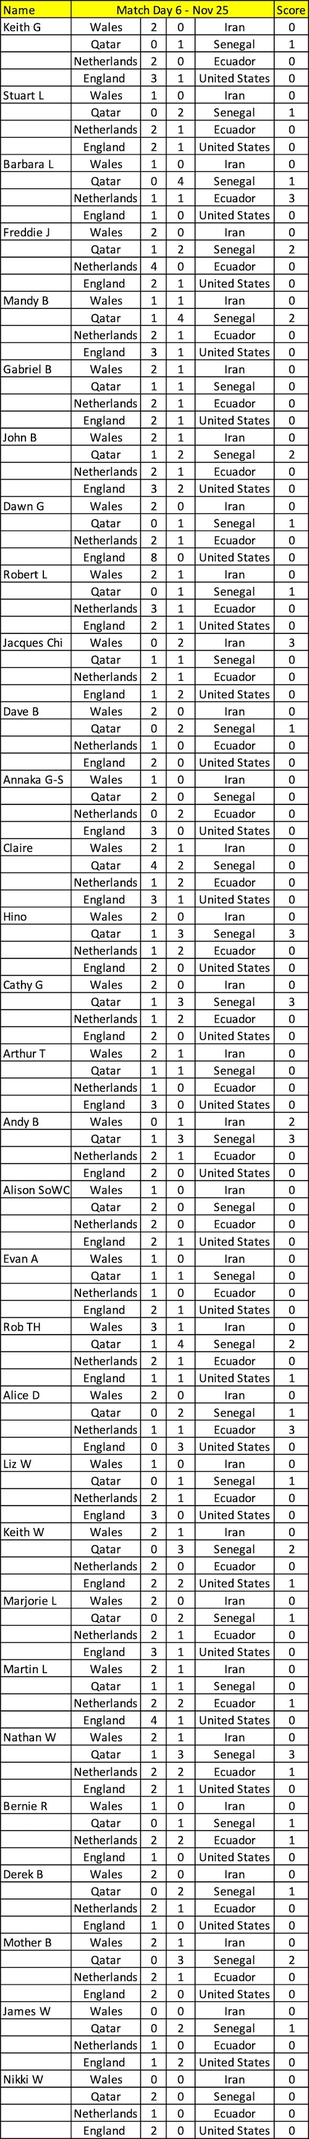
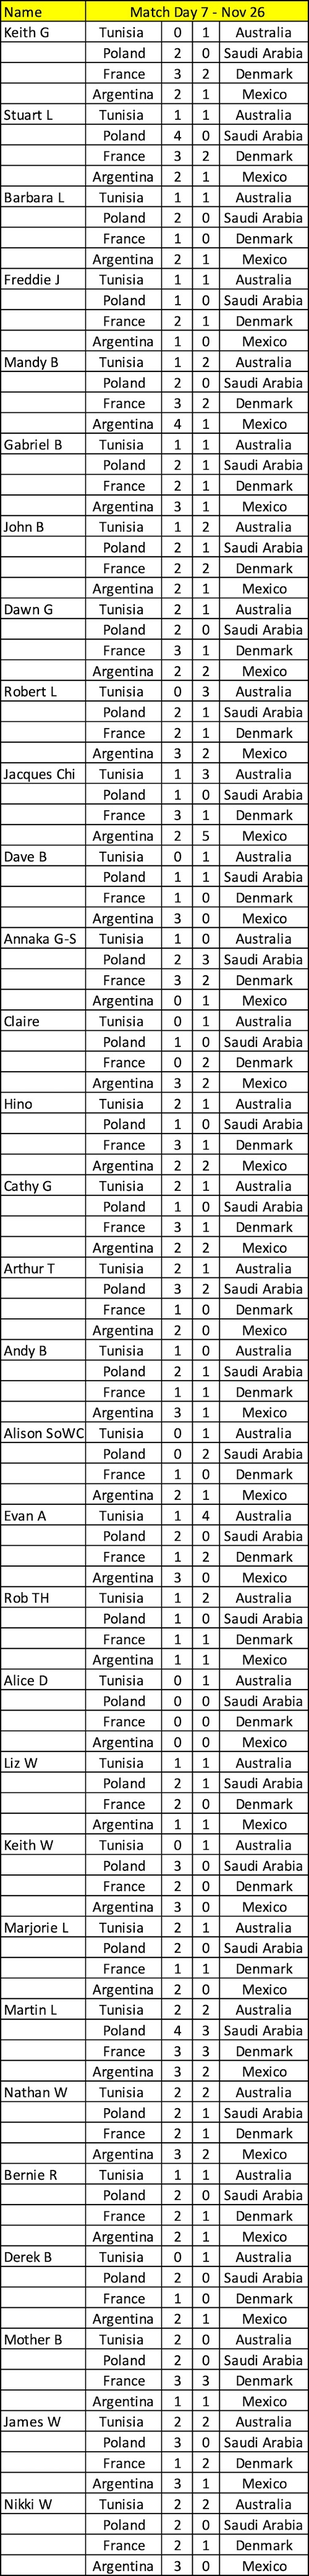
Updates for Day 7 and new Video Archive

Changed region(s): [[0.0, 0.0, 1.0, 1.0], [0.15, 0.2808, 0.18, 0.312], [0.12, 0.6239, 0.15, 0.6551]]

diff --git a/videos.html b/videos.html
@@ -1,0 +1,100 @@
+<!DOCTYPE html>
+
+<html>
+
+<head>
+    <title>
+        Derek and Dave's Werld Cup Website 2022
+    </title>
+    <link rel="stylesheet" type="text/css" href="./resources/css/news2.css" />
+    <link rel="preconnect" href="https://fonts.googleapis.com">
+    <link rel="preconnect" href="https://fonts.gstatic.com" crossorigin>
+    <link href="https://fonts.googleapis.com/css2?family=Rajdhani:wght@400;700&display=swap" rel="stylesheet">
+    <style>
+        @import url('https://fonts.googleapis.com/css2?family=Rajdhani:wght@400;700&display=swap');
+    </style>
+
+</head>
+
+<body>
+    <header class="flex-container">
+        <div id="logo">
+            <img src="./resources/Pics/world-cup.jpg" alt="log" class="logo">
+        </div>
+        <div>
+            <h1>Dave and Derek's World Cup Website</h1>
+        </div>
+        <div id="top-menu">
+            <nav>
+                <a class="link" href="./index.html">Home</a>
+                <a class="link" href="./competition.html">Competition</a>
+                <a class="link" href="./news.html">News</a>
+                <a class="link" href="./results.html">Results</a>
+            </nav>
+        </div>
+    </header>
+    <main>
+
+        <div id="center-text">
+            <div class="title">
+                <h1>Video Archive</h1>
+                <p>Thank you for your video contributions to our page.</p>
+            </div>
+            <div id="news" class="flex-container">
+                <div id="cartoon_dawn" class="video-box">
+                    <h4>Cartoon Dawn Reviews England V USA Prospects</h4>
+                    <video width="400" controls>
+                        <source src="./resources/Video/Animate/Dawn England USA Match.mp4">
+                        Sorry your browser does not support this video
+                    </video>
+                    <p>Thanks to Dawn G</p>
+                </div>
+                <div id="oscar1" class="video-box">
+                    <h4>Oscar Predicts 1</h4>
+                    <p>How Many Goals Oscar?</p>
+                    <video width="350" controls>
+                        <source src="./resources/Video/Oscar/England_scores_one_goel.mp4">
+                        Sorry your browser does not support this video
+                    </video>
+                    <p>Way to go Oscar - All the best psychics allow for many interpretations!</p>
+                    <p>Thanks to Dawn G amd Rob L</p>
+                </div>
+                <div id="oscar2" class="video-box">
+                    <h4>Oscar Predicts 2</h4>
+                    <p>England v USA</p>
+                    <video width="350" controls>
+                        <source src="./resources/Video/Oscar/England_wins_Friday__2.mp4">
+                        Sorry your browser does not support this video
+                    </video>
+                    <p>Thanks to Dawn G amd Rob L</p>
+                </div>
+                <div id="oscar3" class="video-box">
+                    <h4>Oscar Predicts 3</h4>
+                    <p>Wales v Iran</p>
+                    <video width="350" controls>
+                        <source src="./resources/Video/Oscar/Wales_wins_on_Friday.mp4">
+                        Sorry your browser does not support this video
+                    </video>
+                    <p>Thanks to Dawn G amd Rob L</p>
+                </div>
+            </div>
+            
+        </div>
+
+    </main>
+
+
+
+
+
+    <div id="bottom-section" class="flex-container">
+        <h1>Derek and Dave's World Cup Website 2022!</h1>
+        <h5>info@baxtersfootiewebsite.co.uk</h5>
+
+    </div>
+    <footer>
+        <h5>copyright Dave and Derek Baxter 2022</h5>
+    </footer>
+</body>
+
+</html>

diff --git a/competition.html b/competition.html
@@ -44,40 +44,17 @@
                     <img src="./resources/Pics/Comp/rankings.jpg">
                 </div>
                 <div id="form1">
-                    <h2>Match Day Six Predictions</h2>
+                    <h2>Match Day Seven Predictions</h2>
                     <img src="./resources/Pics/Comp/predictions.jpg">
-                    <h4>Match Day Six Predictions</h4>
+                    <h4>Match Day Seven Predictions</h4>
                 </div>
                 <div id="rules" class="rules-box">
                     <h4>Predictions and Leaders</h4>
-                    <p>Wales Iran Shocker!  Total 0-0 game until 98mins when Iran Score TWO!!!!!
-                        Oscar is nil for one.  Lets hope the other is right.
-                    </p>
-                    <h4>Cartoon Dawn Reviews England V USA Prospects</h4>
-                    <video width="400" controls>
-                        <source src="./resources/Video/Animate/Dawn England USA Match.mp4">
-                        Sorry your browser does not support this video
-                    </video>
-                    <h4>Oscar Predicts Day 6 Results</h4>
-                    <p>How Many Goals Oscar?</p>
-                    <video width="350" controls>
-                        <source src="./resources/Video/Oscar/England_scores_one_goel.mp4">
-                        Sorry your browser does not support this video
-                    </video>
-                    <p>Way to go Oscar - All the best psychics allow for many interpretations!</p>
-                    <p>England v USA</p>
-                    <video width="350" controls>
-                        <source src="./resources/Video/Oscar/England_wins_Friday__2.mp4">
-                        Sorry your browser does not support this video
-                    </video>
-                    <p>Wales v Iran</p>
-                    <video width="350" controls>
-                        <source src="./resources/Video/Oscar/Wales_wins_on_Friday.mp4">
-                        Sorry your browser does not support this video
-                    </video>
+                    <a href="./videos.html">Video Archive</a>
+                    <p>Well Oscar was very cute but entirely wrong.  As was cartoon Dawn.  See the video link above if you missed them.  Maybe it is time to bring back Tux the psychic cat?</p>
                     <h4>Match Day 6</h4>
-                    <p>All the Groups are now up and going and England and Wales both in action.  England could qualify today by beating USA.<br><br> With the results we have seen so far who knows what will happen today?.<br>
-                        Andy B is now alone on the top of the board.  Amazing.  
+                    <p>After an rubbish day for England it is time to get our enthusiasm back.  Argentina place Mexico in a tastey South American tangle and France Denmark could be interesting.</p>
+                    <p>Andy B is still in the lead but he is being chased.  What will the scores look like a 9pm?</p>  
                     <br><br> Good luck and enjoy!
                     </p>
                 </div>

diff --git a/resources/css/news2.css b/resources/css/news2.css
@@ -96,6 +96,17 @@ main {
     align-items: center;
 }
 
+.video-box {
+    color: blue;
+    border: 1px solid wheat;
+    margin: 10px;
+    display: flex;
+    flex-flow: column;
+    width: 430px;
+    background-color: burlywood;
+    align-items: center;
+}
+
 img{
     width: 100%;
     Margin: 10px;
